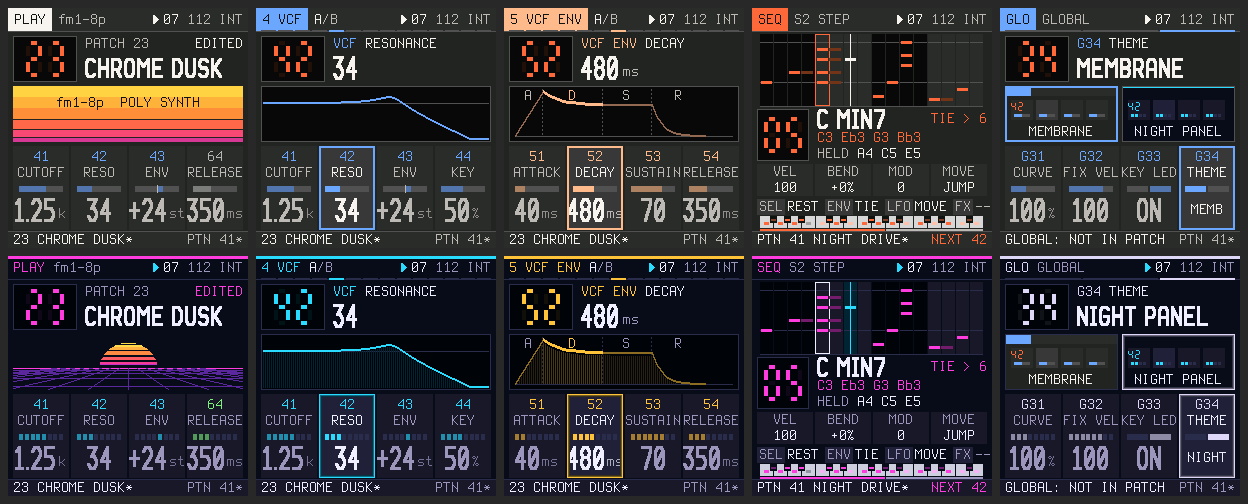
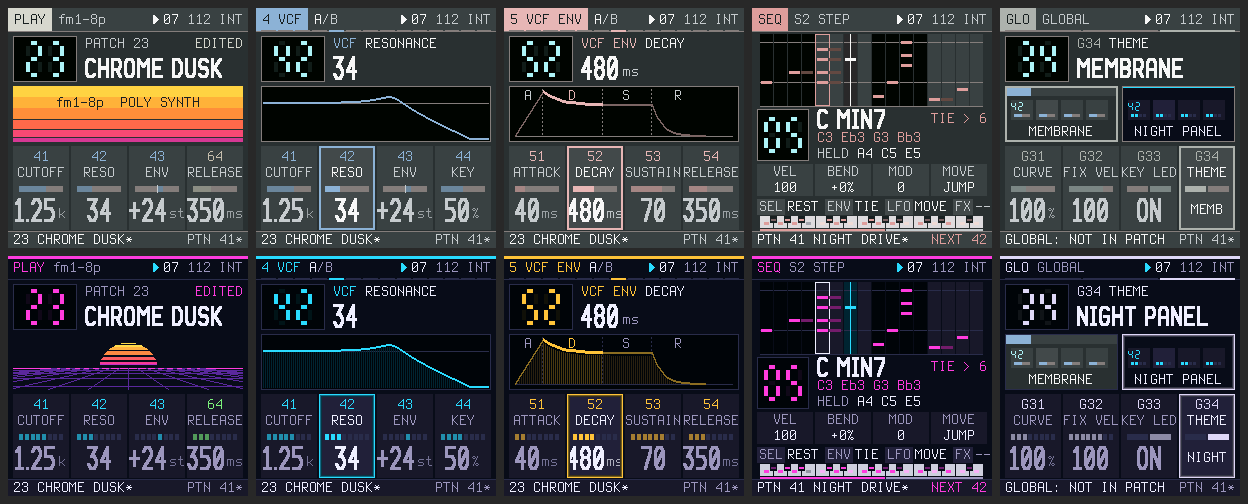
ui: Membrane from the JX-8P panel render: strip gray screen, body gray rules (Refs #47)
Eric's better reference, a clean render of the panel, replaces the photo:
the body is a mid gray and the dark part is the button strip. The body
gray is too light to put text on, so the screen is the strip's gray and
the body's gray draws rules, frames and unlit meters. The LED window is
the display's pale cyan. Sections keep the buttons' colors, lightened only
as far as the contrast rules need. Membrane's minimums are now text 8.5:1
and dim 5.6:1 (WCAG AAA is 7:1), down from 10.2 for text on the lighter
surfaces.

Assisted-by: Claude Code:claude-opus-5-5

Changed region(s): [[0.0, 0.0, 1.0, 0.506], [0.7812, 0.6548, 0.9062, 0.744]]

diff --git a/docs/ui/mockups/render.py b/docs/ui/mockups/render.py
@@ -384,10 +384,10 @@ class Screen:
 THEMES = {
     "membrane": dict(
         name="MEMBRANE",
-        # the JX-8P's and PG-800's colors: the body's neutral charcoal gray, off-white lettering
-        bg="#252525", surface="#2F2F2F", surface_hi="#383838", line="#505050", text="#F4F2EC",
-        dim="#B8B8B4", ink="#141414", window="#0A0A0A",
-        led="#FF6A3F",              # one red for every LED window (the red buttons')
+        # the JX-8P's colors: the button strip's dark gray (screen), the body's mid gray (rules), lettering
+        bg="#2E3135", surface="#3E4145", surface_hi="#46494E", line="#837E7A", text="#F6F5F0",
+        dim="#C6C8CA", ink="#1E2023", window="#050506",
+        led="#A8F0F4",              # one pale cyan for every LED window (the JX-8P's display)
         ghost=0.10,                 # unlit segments: this much of the LED color in the window
         header="chip",              # section name on a chip of its color
         meter_segments=0,           # 0: one continuous bar
@@ -395,14 +395,14 @@ THEMES = {
         focus=(1.0, 1.0),           # frames inward from the edge, as mixes of bg -> accent
         hatch=0.0,                  # fill under graph curves (0: none)
         art="badge",                # what fills the graph slot on PLAY
-        playhead="#F4F2EC", cursor="#FF6A3F", tie_mix=0.45,
-        black_key="#141414",        # the key strip's black keys
+        playhead="#F6F5F0", cursor="#DC9C9E", tie_mix=0.45,
+        black_key="#1E2023",        # the key strip's black keys
         index=0, short="MEMB",      # THEME's value: its index, and its label in a 56 px column
-        # the buttons: red (COPY/WRITE), amber (KEY MODE, AFTER TOUCH), cream (TONE), gray (EDIT),
-        # sky blue (PATCH CHAIN/MIDI), the script's orange
-        sec={"DCO-1": "#FF6A3F", "DCO-2": "#FFC764", "MIX": "#E8E2CC", "VCF": "#6BA7FF", "VCF ENV": "#FFB889",
-             "VCA": "#B4B4B4", "LFO": "#A8CCFF", "CTRL": "#FFD26C", "SEQ": "#FF6A3F", "GLO": "#6BA7FF",
-             "PLAY": "#F4F2EC"},
+        # the buttons: red (top left, COPY/WRITE), amber (KEY MODE, AFTER TOUCH), cream-gray (TONE),
+        # light gray (EDIT), blue (PATCH CHAIN), lightened to meet the contrast rules
+        sec={"DCO-1": "#DC9C9E", "DCO-2": "#D8AC5F", "MIX": "#CDCAC4", "VCF": "#8DB0D6", "VCF ENV": "#E5B6B7",
+             "VCA": "#C2BCAE", "LFO": "#B0C8E2", "CTRL": "#CCA869", "SEQ": "#DC9C9E", "GLO": "#AAB0AC",
+             "PLAY": "#D6D5CE"},
         sun=["#FFD040", "#FFB038", "#FF8C38", "#FF6848", "#F04870", "#D03890"], grid=None, horizon=None,
     ),
     "night-panel": dict(

diff --git a/firmware/ui_map.c b/firmware/ui_map.c
@@ -4,12 +4,13 @@
 
 /* visual.md: Membrane */
 const ui_theme UI_MEMBRANE = {
-    /* the JX-8P's and PG-800's own colors (Eric, 2026-11-14): the body's neutral charcoal gray, off-white
-     * lettering, and the buttons' red, amber, cream, gray and sky blue as the sections, white-balanced
-     * from a photo (its room light made the body look brown) */
-    .bg = 0x2124u, .surface = 0x2965u, .surface_hi = 0x39C7u, .line = 0x528Au, .text = 0xF79Du,
-    .dim = 0xBDD6u, .ink = 0x10A2u, .window = 0x0841u, .led = 0xFB47u,
-    .section = {0xFB47u, 0xFE2Cu, 0xEF19u, 0x6D3Fu, 0xFDD1u, 0xB5B6u, 0xAE7Fu, 0xFE8Du, 0xFB47u, 0x6D3Fu, 0xF79Du},
+    /* the JX-8P's own colors (Eric, 2026-11-14, from a render of its panel): the button strip's dark
+     * gray for the screen, the body's mid gray for rules and frames, the lettering for text, the LED
+     * display's pale cyan, and the buttons' red, amber, cream, gray and blue as the sections, lightened
+     * only as far as the contrast rules need (the body gray is too light to put text on) */
+    .bg = 0x2986u, .surface = 0x3A08u, .surface_hi = 0x4249u, .line = 0x83EFu, .text = 0xF7BEu,
+    .dim = 0xC659u, .ink = 0x1904u, .window = 0x0020u, .led = 0xAF9Eu,
+    .section = {0xDCF3u, 0xDD6Bu, 0xCE58u, 0x8D9Au, 0xE5B6u, 0xC5F5u, 0xB65Cu, 0xCD4Du, 0xDCF3u, 0xAD95u, 0xD6B9u},
     .ghost = 26u,                       /* 10 % */
     .chip = 1u,
     .meter_segments = 0u,

diff --git a/tests/test_ui.c b/tests/test_ui.c
@@ -1719,7 +1719,7 @@ static double ui_contrast(uint16_t a, uint16_t b)
 TT_TEST(ui_themes_meet_their_contrast_rules)
 {
     static const struct { const ui_theme *t; double text, dim; } TH[2] = {
-        {&UI_MEMBRANE, 10.5, 6.0}, {&UI_NIGHT_PANEL, 13.9, 5.6},
+        {&UI_MEMBRANE, 8.5, 5.6}, {&UI_NIGHT_PANEL, 13.9, 5.6},
     };
     uint32_t n, i;
     for (n = 0; n < 2u; n++) {

diff --git a/docs/ui/visual.md b/docs/ui/visual.md
@@ -114,22 +114,22 @@ the two themes:
 
 | key | Membrane | Night Panel | what it changes |
 | --- | --- | --- | --- |
-| `bg` | `2124` charcoal | `0863` | the screen |
-| `surface` | `2965` | `18C5` | columns, footer, cells |
-| `surface_hi` | `39C7` | `2107` | the focus column, legend chips |
-| `line` | `528A` | `2969` | rules, frames, unlit meter |
-| `text` | `F79D` off-white | `EF7F` | values, focused labels |
-| `dim` | `BDD6` | `9CB7` | other labels |
-| `ink` | `10A2` | `0863` | text on a chip or on the sunset |
-| `window` | `0841` | `0021` | LED and graph windows |
-| `led` | `FB47` red | the section color | the 7-segment digits |
+| `bg` | `2986` the button strip | `0863` | the screen |
+| `surface` | `3A08` | `18C5` | columns, footer, cells |
+| `surface_hi` | `4249` | `2107` | the focus column, legend chips |
+| `line` | `83EF` the body | `2969` | rules, frames, unlit meter |
+| `text` | `F7BE` the lettering | `EF7F` | values, focused labels |
+| `dim` | `C659` | `9CB7` | other labels |
+| `ink` | `1904` | `0863` | text on a chip or on the sunset |
+| `window` | `0020` | `0021` | LED and graph windows |
+| `led` | `AF9E` pale cyan | the section color | the 7-segment digits |
 | `ghost` | 10 % | 8 % | unlit segments, as this much of the LED color |
 | `header` | `chip` | `band` | the section name on a chip of its color, or in its color under a 3 px band |
 | `meter_segments`, `meter_gap` | 0, 0 (one bar) | 8, 2 (an LED ladder) | the knob meter |
 | `focus` | `(1.0, 1.0)` | `(1.0, 0.45, 0.2)` | frames inward from the focused element's edge, as mixes from `bg` to the accent: a 2 px frame, or a glow |
 | `hatch` | 0 | 16 % | the fill under graph curves |
 | `art` | `badge` | `sun` | the PLAY slot: six sunset bands with the device name, or the striped sun over a perspective grid |
-| `playhead`, `cursor` | `F79D`, `FB47` | `2EDF`, `EF7F` | the SEQ playhead and step cursor |
+| `playhead`, `cursor` | `F7BE`, `DCF3` | `2EDF`, `EF7F` | the SEQ playhead and step cursor |
 | `sun` | `FE88 FD87 FC67 FB49 F24E D1D2` | `FEC9 FD88 FC48 FAEC F1F2 C198` | the sunset bands (PLAY only) |
 | `grid`, `horizon` | none | `5953`, `F9FB` | the perspective grid (PLAY only) |
 
@@ -137,31 +137,33 @@ All values are RGB565, which is what `HB_RGB()` produces.
 
 ### Section colors
 
-Membrane takes the JX-8P's and PG-800's own colors (Eric, 2026-11-14): the body's neutral
-charcoal gray for the screen, off-white lettering, and the panel buttons' colors for the sections,
-named below by the button each comes from. They were white-balanced from a photo, whose room
-light made the body look brown, and lightened only as far as the contrast rules below need.
+Membrane takes the JX-8P's own colors (Eric, 2026-11-14, from a render of its panel). The screen
+is the button strip's dark gray. The body's mid gray is too light to put text on, so it draws the
+rules, frames and unlit meters. Text is the lettering, the LED window the display's pale cyan, and
+the sections the panel buttons' colors, named below by the button each comes from. The panel has
+five button colors for eight sections, so some repeat on sections far apart, and each is lightened
+only as far as the contrast rules below need (the red most, to a soft red).
 
 | section | Membrane | Night Panel |
 | --- | --- | --- |
-| 1x DCO-1 | `FB47` red (COPY/WRITE) | `FAF4` pink |
-| 2x DCO-2 | `FE2C` amber (KEY MODE) | `FC47` orange |
-| 3x MIX | `EF19` cream (TONE) | `DEBE` lilac white |
-| 4x VCF | `6D3F` sky blue (PATCH CHAIN) | `2EDF` cyan |
-| 5x VCF ENV | `FDD1` orange (the script) | `FE07` amber |
-| 6x VCA | `B5B6` gray (EDIT) | `7F8F` green |
-| 7x LFO | `AE7F` pale sky blue | `B3FF` violet |
-| 8x CTRL | `FE8D` amber (AFTER TOUCH) | `3D1F` blue |
-| SEQ | `FB47` red (WRITE) | `F9FB` magenta |
-| GLO | `6D3F` sky blue (MIDI) | `DEBE` lilac white |
-| PLAY | `F79D` off-white | `F9FB` magenta |
+| 1x DCO-1 | `DCF3` red (COPY/WRITE) | `FAF4` pink |
+| 2x DCO-2 | `DD6B` amber (KEY MODE) | `FC47` orange |
+| 3x MIX | `CE58` cream-gray (TONE) | `DEBE` lilac white |
+| 4x VCF | `8D9A` blue (PATCH CHAIN) | `2EDF` cyan |
+| 5x VCF ENV | `E5B6` pale red | `FE07` amber |
+| 6x VCA | `C5F5` light gray (EDIT) | `7F8F` green |
+| 7x LFO | `B65C` pale blue | `B3FF` violet |
+| 8x CTRL | `CD4D` amber (AFTER TOUCH) | `3D1F` blue |
+| SEQ | `DCF3` red (WRITE) | `F9FB` magenta |
+| GLO | `AD95` gray | `DEBE` lilac white |
+| PLAY | `D6B9` the lettering | `F9FB` magenta |
 
 ### Contrast
 
 All ratios are WCAG ratios, computed on the quantized RGB565 values.
 
-- **Text:** at least 10.5:1 on every surface in Membrane, and 13.9:1 in Night Panel.
-- **Dim labels:** at least 6.0:1 in Membrane and 5.6:1 in Night Panel.
+- **Text:** at least 8.5:1 on every surface in Membrane, and 13.9:1 in Night Panel.
+- **Dim labels:** at least 5.6:1 in Membrane and 5.6:1 in Night Panel.
 - **Section colors:** at least 4.7:1 on `surface` and 4.9:1 on `bg`.
 
 ### Where the layouts differ, and why it stays minimal
